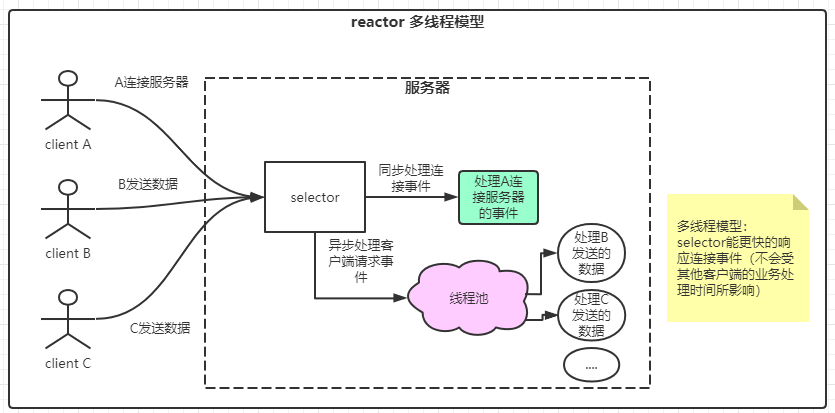
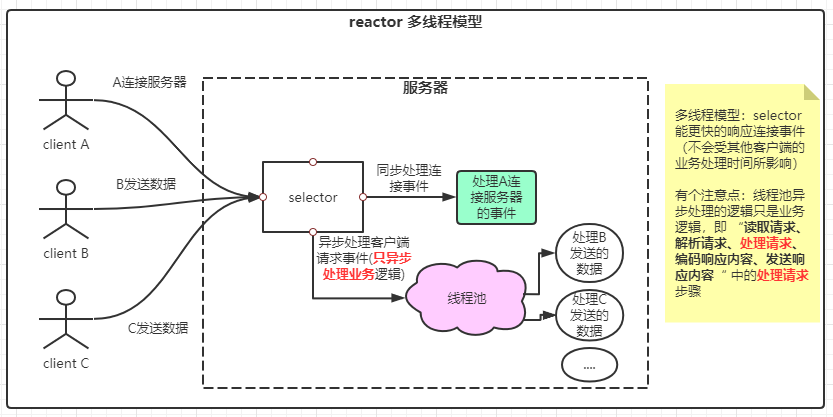
reactor主从模型：差最后一个问题=> selector的select和register方法 加了同一把锁，导致阻塞

diff --git a/src/main/java/io/nio/masterslavereactor/MasterSlaveReactorServer.java b/src/main/java/io/nio/masterslavereactor/MasterSlaveReactorServer.java
@@ -1,0 +1,123 @@
+package io.nio.masterslavereactor;
+
+import java.io.IOException;
+import java.net.InetSocketAddress;
+import java.nio.ByteBuffer;
+import java.nio.channels.SelectionKey;
+import java.nio.channels.Selector;
+import java.nio.channels.ServerSocketChannel;
+import java.nio.channels.SocketChannel;
+import java.util.Iterator;
+import java.util.Set;
+import java.util.concurrent.ArrayBlockingQueue;
+import java.util.concurrent.Executors;
+import java.util.concurrent.ThreadPoolExecutor;
+import java.util.concurrent.TimeUnit;
+
+public class MasterSlaveReactorServer {
+
+    private static final ThreadPoolExecutor THREAD_POOL_EXECUTOR = new ThreadPoolExecutor(
+            5,
+            10,
+            10,
+            TimeUnit.SECONDS,
+            new ArrayBlockingQueue<>(30),
+            Executors.defaultThreadFactory(),
+            (r, executor) -> System.out.println("自定义拒绝策略 -- logic")
+    );
+
+    public static void main(String[] args) throws IOException {
+        ServerSocketChannel ssc = ServerSocketChannel.open();
+        ssc.bind(new InetSocketAddress("127.0.0.1", 8899));
+        // 配置了非阻塞才能往selector注册
+        ssc.configureBlocking(false);
+
+        // 专注于客户端连接事件 --> 客户端的连接操作，对于服务端而言就是接收事件
+        Selector masterSelector = Selector.open();
+        ssc.register(masterSelector, SelectionKey.OP_ACCEPT);
+
+        Selector slaveSelector = Selector.open();
+
+        // 启动masterSlave线程，处理客户端请求
+        new Thread(() -> {
+            while (!Thread.interrupted()) {
+                try {
+                    System.out.println(Thread.currentThread().getName() + "等待客户端连接..");
+                    // 此方法是阻塞的，当selector有事件发生时，才会解除阻塞
+                    masterSelector.select();
+
+                    // 获取注册在selector中的channel的感兴趣事件  --> 只有是感兴趣的事件才会被放到set中
+                    Set<SelectionKey> selectionKeys = masterSelector.selectedKeys();
+                    Iterator<SelectionKey> iterator = selectionKeys.iterator();
+                    while (iterator.hasNext()) {
+                        SelectionKey selectionKey = iterator.next();
+                        if (selectionKey.isAcceptable()) {
+                            System.out.println("有客户端连接了..，获取客户端的socketChannel并注册到slaveSelector中，同时绑定客户端的读事件");
+                            // 先获取到服务端的channel，然后再获取连接到服务端的客户端channel
+                            ServerSocketChannel serverSocketChannel = (ServerSocketChannel) selectionKey.channel();
+                            SocketChannel clientSocketChannel = serverSocketChannel.accept();
+                            clientSocketChannel.configureBlocking(false);
+                            /**
+                             * ===========
+                             * 注册到slaveSelector中
+                             * TODO --> 这里阻塞了  这里和83行的select死锁了。
+                             * {@link https://www.iteye.com/blog/xiaoz5919-1518473}
+                             * ===========
+                             */
+                            clientSocketChannel.register(slaveSelector, SelectionKey.OP_READ);
+                        }
+
+                        iterator.remove();
+                    }
+                } catch (Exception e) {
+                    e.printStackTrace();
+                }
+            }
+        }, "masterSelector线程").start();
+
+        new Thread(() -> {
+            while (!Thread.interrupted()) {
+                try {
+                    // 此方法是阻塞的，当selector有事件发生时，才会解除阻塞
+                    slaveSelector.select();
+
+                    // 获取注册在selector中的channel的感兴趣事件  --> 只有是感兴趣的事件才会被放到set中
+                    Set<SelectionKey> selectionKeys = masterSelector.selectedKeys();
+                    Iterator<SelectionKey> iterator = selectionKeys.iterator();
+                    while (iterator.hasNext()) {
+                        SelectionKey selectionKey = iterator.next();
+                        if (selectionKey.isReadable()) {
+                            System.out.println("有客户端向服务器发送数据了..");
+                            SocketChannel clientSocketChannel = (SocketChannel) selectionKey.channel();
+                            ByteBuffer byteBuffer = ByteBuffer.allocate(10);
+                            StringBuilder sb = new StringBuilder();
+                            while (clientSocketChannel.read(byteBuffer) > 0) {
+                                // 切换成读模式，读取byteBuffer的数据
+                                byteBuffer.flip();
+                                sb.append(new String(byteBuffer.array(), 0, (byteBuffer.limit() - byteBuffer.position())));
+                            }
+
+                            THREAD_POOL_EXECUTOR.submit(() -> {
+                                System.out.println(Thread.currentThread().getName() + " 异步处理客户端发来的数据：" + sb);
+                            });
+
+                            // 往客户端回写数据
+                            ByteBuffer writeBuffer = ByteBuffer.wrap("hello client！".getBytes());
+                            clientSocketChannel.write(writeBuffer);
+                            selectionKey.interestOps(SelectionKey.OP_READ | SelectionKey.OP_WRITE);
+
+                        } else if (selectionKey.isWritable()) {
+                            System.out.println("处理服务端的写事件，无数据可写时，将感兴趣的写事件去除");
+                            selectionKey.interestOps(SelectionKey.OP_READ);
+                        }
+
+                        iterator.remove();
+                    }
+                } catch (Exception e) {
+                    e.printStackTrace();
+                }
+            }
+        }, "slaveSelector线程").start();
+
+    }
+}

diff --git a/src/main/java/io/nio/mulreactor/MulReactorServer.java b/src/main/java/io/nio/mulreactor/MulReactorServer.java
@@ -1,0 +1,86 @@
+package io.nio.mulreactor;
+
+import java.io.IOException;
+import java.net.InetSocketAddress;
+import java.nio.ByteBuffer;
+import java.nio.channels.SelectionKey;
+import java.nio.channels.Selector;
+import java.nio.channels.ServerSocketChannel;
+import java.nio.channels.SocketChannel;
+import java.util.Iterator;
+import java.util.Set;
+import java.util.concurrent.ArrayBlockingQueue;
+import java.util.concurrent.Executors;
+import java.util.concurrent.ThreadPoolExecutor;
+import java.util.concurrent.TimeUnit;
+
+public class MulReactorServer {
+
+    private static final ThreadPoolExecutor THREAD_POOL_EXECUTOR = new ThreadPoolExecutor(
+            5,
+            10,
+            10,
+            TimeUnit.SECONDS,
+            new ArrayBlockingQueue<>(30),
+            Executors.defaultThreadFactory(),
+            (r, executor) -> System.out.println("自定义拒绝策略")
+    );
+
+    public static void main(String[] args) throws IOException {
+        ServerSocketChannel ssc = ServerSocketChannel.open();
+        ssc.bind(new InetSocketAddress("127.0.0.1", 8899));
+        // 配置了非阻塞才能往selector注册
+        ssc.configureBlocking(false);
+
+        // 专注于客户端连接事件 --> 客户端的连接操作，对于服务端而言就是接收事件
+        Selector selector = Selector.open();
+        ssc.register(selector, SelectionKey.OP_ACCEPT);
+
+        // 线程为中断则一直执行
+        while (!Thread.interrupted()) {
+            System.out.println("等待客户端连接..");
+            // 此方法是阻塞的，当selector有事件发生时，才会解除阻塞
+            selector.select();
+
+            // 获取注册在selector中的channel的感兴趣事件  --> 只有是感兴趣的事件才会被放到set中
+            Set<SelectionKey> selectionKeys = selector.selectedKeys();
+            Iterator<SelectionKey> iterator = selectionKeys.iterator();
+            while (iterator.hasNext()) {
+                SelectionKey selectionKey = iterator.next();
+                if (selectionKey.isAcceptable()) {
+                    System.out.println("有客户端连接了..，获取客户端的socketChannel并注册到selector中，同时绑定客户端的读事件");
+                    // 先获取到服务端的channel，然后再获取连接到服务端的客户端channel
+                    ServerSocketChannel serverSocketChannel = (ServerSocketChannel) selectionKey.channel();
+                    SocketChannel clientSocketChannel = serverSocketChannel.accept();
+                    clientSocketChannel.configureBlocking(false);
+                    clientSocketChannel.register(selector, SelectionKey.OP_READ);
+                } else if (selectionKey.isReadable()) {
+                    System.out.println("有客户端向服务器发送数据了..");
+                    SocketChannel clientSocketChannel = (SocketChannel) selectionKey.channel();
+                    ByteBuffer byteBuffer = ByteBuffer.allocate(10);
+                    StringBuilder sb = new StringBuilder();
+                    while (clientSocketChannel.read(byteBuffer) > 0) {
+                        // 切换成读模式，读取byteBuffer的数据
+                        byteBuffer.flip();
+                        sb.append(new String(byteBuffer.array(), 0, (byteBuffer.limit() - byteBuffer.position())));
+                    }
+
+                    THREAD_POOL_EXECUTOR.submit(() -> {
+                        System.out.println(Thread.currentThread().getName() + " 异步处理客户端发来的数据：" + sb);
+                    });
+
+                    // 往客户端回写数据
+                    ByteBuffer writeBuffer = ByteBuffer.wrap("hello client！".getBytes());
+                    clientSocketChannel.write(writeBuffer);
+                    selectionKey.interestOps(SelectionKey.OP_READ | SelectionKey.OP_WRITE);
+
+                } else if (selectionKey.isWritable()) {
+                    System.out.println("处理服务端的写事件，无数据可写时，将感兴趣的写事件去除");
+                    selectionKey.interestOps(SelectionKey.OP_READ);
+                }
+
+                iterator.remove();
+            }
+        }
+    }
+}

diff --git a/src/main/java/io/nio/mulreactor/MulReactorClient.java b/src/main/java/io/nio/mulreactor/MulReactorClient.java
@@ -1,0 +1,63 @@
+package io.nio.mulreactor;
+
+import java.io.IOException;
+import java.net.InetSocketAddress;
+import java.nio.ByteBuffer;
+import java.nio.channels.SelectionKey;
+import java.nio.channels.Selector;
+import java.nio.channels.SocketChannel;
+import java.util.Iterator;
+import java.util.Set;
+import java.util.concurrent.ArrayBlockingQueue;
+import java.util.concurrent.Executors;
+import java.util.concurrent.ThreadPoolExecutor;
+import java.util.concurrent.TimeUnit;
+
+public class MulReactorClient {
+
+    public static void main(String[] args) throws IOException {
+        SocketChannel socketChannel = SocketChannel.open();
+        // 一定要配置了非阻塞再连接服务端
+        socketChannel.configureBlocking(false);
+        socketChannel.connect(new InetSocketAddress("127.0.0.1", 8899));
+
+        Selector selector = Selector.open();
+        socketChannel.register(selector, SelectionKey.OP_CONNECT);
+
+        while (!Thread.interrupted()) {
+            selector.select();
+
+            Set<SelectionKey> selectionKeys = selector.selectedKeys();
+            System.out.println(selectionKeys.size());
+            Iterator<SelectionKey> iterator = selectionKeys.iterator();
+            while (iterator.hasNext()) {
+                SelectionKey selectionKey = iterator.next();
+                if (selectionKey.isConnectable()) {
+                    SocketChannel innerSocketChannel = (SocketChannel) selectionKey.channel();
+                    if (innerSocketChannel.isConnectionPending()) {
+                        innerSocketChannel.finishConnect();
+                    }
+
+                    innerSocketChannel.write(ByteBuffer.wrap("hello server！".getBytes()));
+                    innerSocketChannel.configureBlocking(false);
+                    // 注册读事件，为了后续接收服务器向客户端发送的数据
+                    innerSocketChannel.register(selector, SelectionKey.OP_READ);
+                } else if (selectionKey.isReadable()) {
+                    ByteBuffer byteBuffer = ByteBuffer.allocate(10);
+                    SocketChannel innerSocketChannel = (SocketChannel) selectionKey.channel();
+                    StringBuilder sb = new StringBuilder();
+                    while (innerSocketChannel.read(byteBuffer) > 0) {
+                        // 切换成读模式，读取byteBuffer的数据
+                        byteBuffer.flip();
+                        sb.append(new String(byteBuffer.array(), 0, (byteBuffer.limit() - byteBuffer.position())));
+                    }
+                    System.out.println("服务端发来的数据：" + sb);
+                }
+
+                iterator.remove();
+            }
+        }
+
+    }
+
+}

diff --git a/src/main/java/io/nio/masterslavereactor/MasterSlaveReactorClient.java b/src/main/java/io/nio/masterslavereactor/MasterSlaveReactorClient.java
@@ -1,0 +1,59 @@
+package io.nio.masterslavereactor;
+
+import java.io.IOException;
+import java.net.InetSocketAddress;
+import java.nio.ByteBuffer;
+import java.nio.channels.SelectionKey;
+import java.nio.channels.Selector;
+import java.nio.channels.SocketChannel;
+import java.util.Iterator;
+import java.util.Set;
+
+public class MasterSlaveReactorClient {
+
+    public static void main(String[] args) throws IOException {
+        SocketChannel socketChannel = SocketChannel.open();
+        // 一定要配置了非阻塞再连接服务端
+        socketChannel.configureBlocking(false);
+        socketChannel.connect(new InetSocketAddress("127.0.0.1", 8899));
+
+        Selector selector = Selector.open();
+        socketChannel.register(selector, SelectionKey.OP_CONNECT);
+
+        while (!Thread.interrupted()) {
+            selector.select();
+
+            Set<SelectionKey> selectionKeys = selector.selectedKeys();
+            System.out.println(selectionKeys.size());
+            Iterator<SelectionKey> iterator = selectionKeys.iterator();
+            while (iterator.hasNext()) {
+                SelectionKey selectionKey = iterator.next();
+                if (selectionKey.isConnectable()) {
+                    SocketChannel innerSocketChannel = (SocketChannel) selectionKey.channel();
+                    if (innerSocketChannel.isConnectionPending()) {
+                        innerSocketChannel.finishConnect();
+                    }
+
+                    innerSocketChannel.write(ByteBuffer.wrap("hello server！".getBytes()));
+                    innerSocketChannel.configureBlocking(false);
+                    // 注册读事件，为了后续接收服务器向客户端发送的数据
+                    innerSocketChannel.register(selector, SelectionKey.OP_READ);
+                } else if (selectionKey.isReadable()) {
+                    ByteBuffer byteBuffer = ByteBuffer.allocate(10);
+                    SocketChannel innerSocketChannel = (SocketChannel) selectionKey.channel();
+                    StringBuilder sb = new StringBuilder();
+                    while (innerSocketChannel.read(byteBuffer) > 0) {
+                        // 切换成读模式，读取byteBuffer的数据
+                        byteBuffer.flip();
+                        sb.append(new String(byteBuffer.array(), 0, (byteBuffer.limit() - byteBuffer.position())));
+                    }
+                    System.out.println("服务端发来的数据：" + sb);
+                }
+
+                iterator.remove();
+            }
+        }
+
+    }
+
+}

diff --git a/src/main/java/io/nio/singlereactor/SingleReactorServer.java b/src/main/java/io/nio/singlereactor/SingleReactorServer.java
@@ -10,7 +10,7 @@ import java.nio.channels.SocketChannel;
 import java.util.Iterator;
 import java.util.Set;
 
-public class SingleSelectorServer {
+public class SingleReactorServer {
 
     public static void main(String[] args) throws IOException {
         ServerSocketChannel ssc = ServerSocketChannel.open();

diff --git a/src/main/java/io/nio/singlereactor/SingleReactorClient.java b/src/main/java/io/nio/singlereactor/SingleReactorClient.java
@@ -9,7 +9,7 @@ import java.nio.channels.SocketChannel;
 import java.util.Iterator;
 import java.util.Set;
 
-public class SingleSelectorClient {
+public class SingleReactorClient {
 
     public static void main(String[] args) throws IOException {
         SocketChannel socketChannel = SocketChannel.open();

diff --git a/io相关技术总结/IO系列学习总结四：NIO的三种reactor模型/README.md b/io相关技术总结/IO系列学习总结四：NIO的三种reactor模型/README.md
@@ -9,7 +9,7 @@
 
 * 而最典型的服务模式如书中的下图所示：
 
-  ![1.png](11.png)
+  ![1.png](1.png)
 
 客户端连接服务器，服务器开线程处理客户端的请求，处理过程包括上述的五个流程：**读取请求、解析请求、处理请求、编码响应内容、发送响应内容**。在这样的一个结构中，我们的线程处理请求需要经过五个步骤才能释放当前线程资源。
 
@@ -17,17 +17,18 @@
 
 * ![singleReactor.png](./singleReactor.png)
 * 由图中可以看出，每个客户端连接的都是服务端的一个selector。这个selector的任务非常繁重：需要处理**客户端连接服务端的事件，客户端向服务端发送数据事件、服务端向客户端回写数据事件**。在实际的应用中，`我们希望服务端能快速处理事件，而不希望因为客户端A的请求处理逻辑很长，导致客户端B的连接请求一直处于pending状态。`
-* 对应的单线程模型代码地址：
+* [对应的单线程模型代码地址，点击跳转访问](https://github.com/AvengerEug/javase/blob/develop/src/main/java/io/nio/singlereactor/SingleReactorServer.java)
 
 ## 三、reactor多线程模型
 
 * ![mulReactor.png](./mulReactor.png)
 * 由图中可以看出，多线程模型非常的简单，你不是要求服务端能快速处理事件？那行，客户端连接成功后，我直接开启一个线程来处理请求。主线程专门处理客户端的连接请求。这不就能快速处理事件了么？这种模型下，看似已经完美了，但是还是有一点瑕疵：**selector的工作太繁重了，又当爹又当妈。做的事比较杂，不专业，容易受到其他客户端产生事件的影响**。那要如何改进呢？专业的人做专业的事：专门创建多个selector，一个充当处理客户端连接的角色，另一个充当处理客户端请求的角色。
-* 对应的多线程模型代码地址：
+* [对应的多线程模型代码地址，点击跳转访问](https://github.com/AvengerEug/javase/blob/develop/src/main/java/io/nio/mulreactor/MulReactorServer.java)
+* 注意点：线程池处理的异步逻辑仅仅是**读取请求、解析请求、处理请求、编码响应内容、发送响应内容**中的**`处理请求`**，**切忽将解析请求和编码响应过程也异步处理，否则会出现并发问题！**
 
 ## 四、reactor主从线程模型
 
 * ![master&slave.png](./master&slave.png)
 * 从图中可以看出，专业的人做专业的事。**这种架构非常的经典，连redis的IO模型用的也是它**。有人可能会抬杠：专门处理客户端的selector也会出现负载量大，无法处理的情况下。这个问题就像你的应用程序在代码层面上能优化的点都优化完了，现在还是扛不住，那怎么办？很简单：横向扩容，把负载的请求分散到多台机器处理。虽然在上述的单线程模型、多线程模型中也能使用扩容的方式解决负载量大的问题，但在这两种模型下来使用金钱（扩容需要服务器 ===> 需要大量的钱~）来达到减轻负载的目的的话，如果你任性，钱多，那当我没说！
 
-* 对应的主从线程模型代码地址：
+* [对应的主从线程模型代码地址，点击跳转访问](https://github.com/AvengerEug/javase/blob/develop/src/main/java/io/nio/masterslavereactor/MasterSlaveReactorServer.java)
